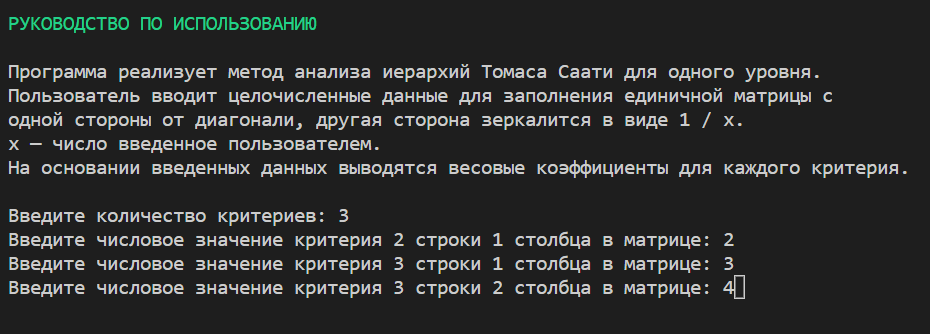
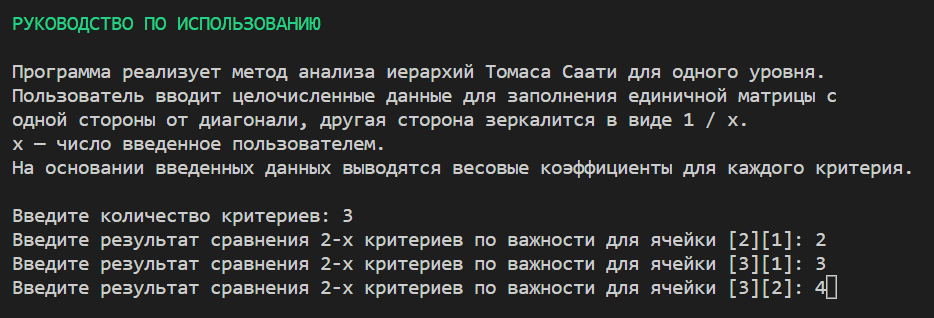
Изменение подписи ввода, изменение тестов, добавление подписей к картинкам в руководстве пользователя

Changed region(s): [[0.0, 0.1981, 0.9667, 0.566], [0.0, 0.6226, 0.9043, 0.934], [0.0, 0.0283, 0.343, 0.1132]]

diff --git a/ФТ-210007Бельский.py b/ФТ-210007Бельский.py
@@ -45,7 +45,7 @@ for i in range(matrix.shape[0]):
     for j in range(matrix.shape[1]):
         if matrix[i, j] == 1:
             break
-        matrix[i, j] = input_num(f'Введите числовое значение критерия {i + 1} строки {j + 1} столбца в матрице')
+        matrix[i, j] = input_num(f'Введите результат сравнения 2-х критериев по важности для ячейки [{i + 1}][{j + 1}]')
         matrix[j, i] = matrix[0, 0] / matrix[i, j]
 
 mults = []
